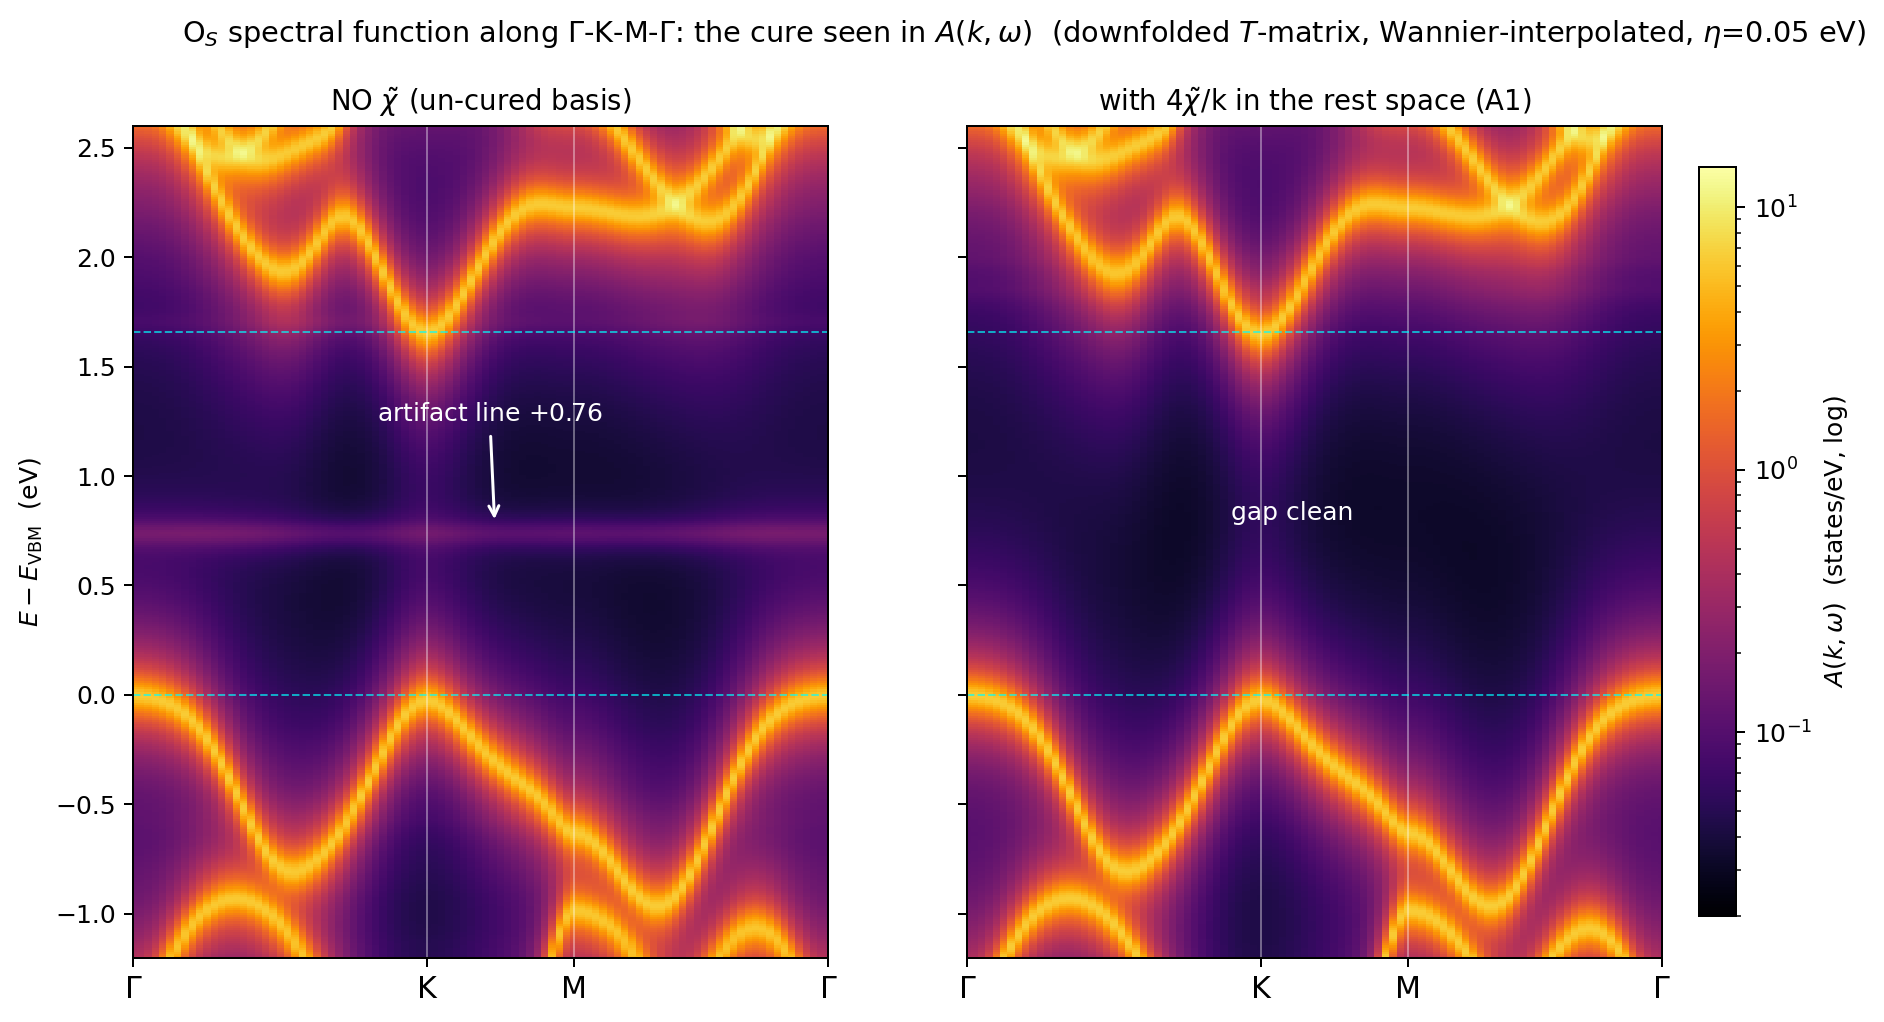
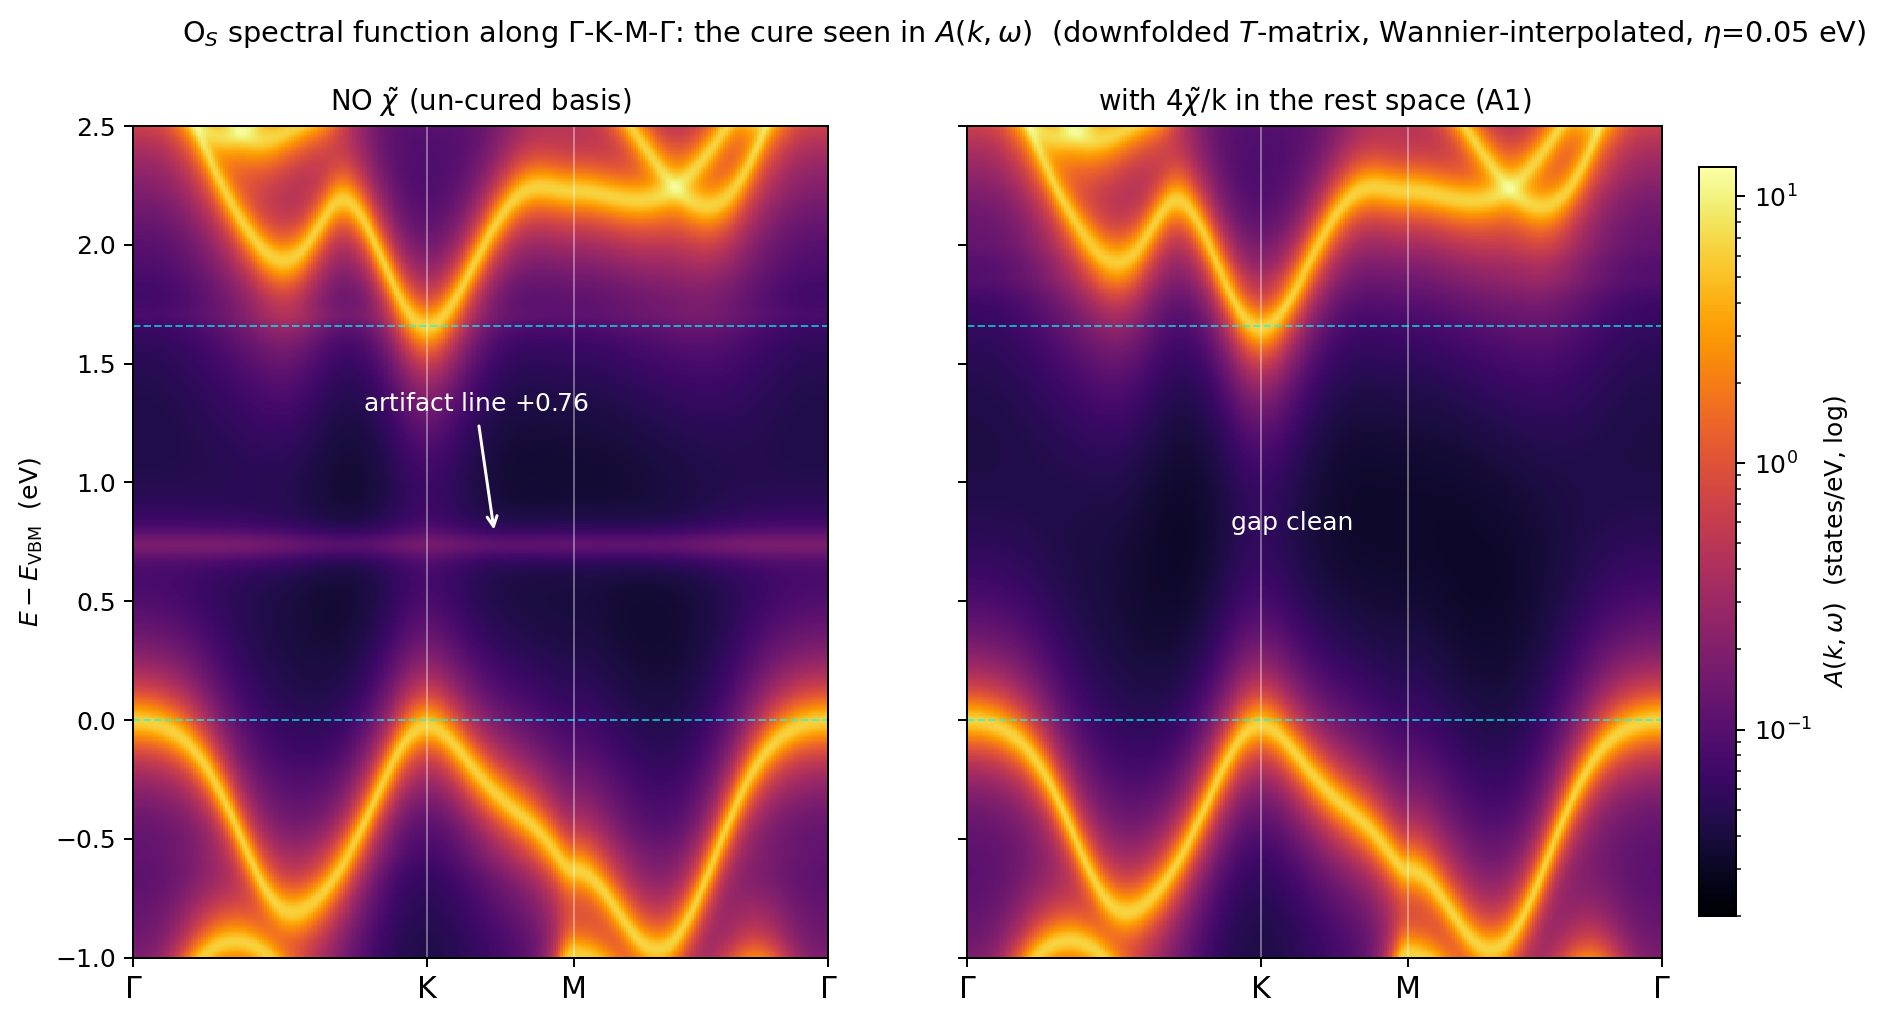
Densify spectral maps: 286 path points, gap window [-1.0, 2.5] eV
3x k-path density, 0.005 eV omega step in the display window; all
three maps regenerated. Captions: window description; a1 line at
+0.32 (static-fold) vs +0.236 (full diag) with the omega0-pin note;
e-doublet +1.210 matches the published T-matrix +1.21-1.22.

diff --git a/docs/pages/augmentation.html b/docs/pages/augmentation.html
@@ -225,12 +225,12 @@ A(k_p,\omega)=-\tfrac1\pi\,\mathrm{Im}\sum_n\big[g^0_n+g^{0\,2}_n\,T_{nn}(k_p,\o
 <figcaption><strong>The money shot.</strong> Same pipeline, same color scale (log), gap window. <strong>Left</strong> (no $\tilde\chi$): a flat bright line at $+0.76$ eV crosses the entire gap &mdash; $k$-independence is the spectral signature of a localized state, here the variational artifact of &sect;1. <strong>Right</strong> ($4\tilde\chi$/k in the rest space): the gap is clean; the host bands are pixel-identical. The O$_S$ defect's real states are band-edge resonances (triple at the VBM edge, doublet at the CBM edge) that merge with the band edges at $\eta=0.05$ eV &mdash; an <em>empty gap</em> is exactly what the cured spectral function should show.</figcaption></figure>
 
 <figure><img src="../assets/spectral_GKMG.png" alt="Full A(k,w) map" style="width:100%;max-width:860px">
-<figcaption>The full augmented $A(k,\omega)$ over the 11-band manifold (log colorbar, single impurity, $\eta=0.05$ eV): the Mo-$d$/S-$p$ dispersion along $\Gamma$&ndash;K&ndash;M&ndash;$\Gamma$ with the direct gap at K, Wannier-smooth everywhere.</figcaption></figure>
+<figcaption>The augmented $A(k,\omega)$ in the gap window $[-1.0,2.5]$ eV (log colorbar, single impurity, $\eta=0.05$ eV; 286 interpolated path points): the Mo-$d$/S-$p$ band edges along $\Gamma$&ndash;K&ndash;M&ndash;$\Gamma$ with the direct gap at K, Wannier-smooth everywhere and an empty gap.</figcaption></figure>
 
 <h3>9.1&nbsp;&nbsp;The control that closes the story: V$_{\rm S}$, where the flat lines are <em>real</em></h3>
 <p>The same pipeline on the S-vacancy production streams ($144{\times}144$, bands 1&ndash;70, no augmentation needed &mdash; the NC-golden quadrant; the defect-independent Wannier gauge is reused as-is):</p>
 <figure><img src="../assets/spectral_SV_GKMG.png" alt="V_S spectral function along G-K-M-G" style="width:100%;max-width:860px">
-<figcaption>V$_{\rm S}$: <strong>two genuine flat in-gap lines</strong> &mdash; the $e$-doublet at $+1.210$ eV ($k$-averaged $A=0.17$; the site's published value $+1.19$&ndash;$1.21$) and the fainter $a_1$ near $+0.24$ whose intensity varies $8{\times}$ along the path: energy flatness signals localization, the $k$-modulated brightness is the state's momentum decomposition. Together with &sect;9's O$_S$ maps this completes the spectral-function narrative: <em>one pipeline, an empty gap where the in-gap state was an artifact, and bright flat lines where the defect states are real</em> &mdash; the method neither misses genuine levels nor keeps spurious ones.</figcaption></figure>
+<figcaption>V$_{\rm S}$: <strong>two genuine flat in-gap lines</strong> &mdash; the $e$-doublet at $+1.210$ eV ($k$-averaged $A=0.17$; matching the published $T$-matrix value $+1.21$&ndash;$1.22$) and the fainter $a_1$ line at $+0.32$ (its full-diagonalization value is $+0.236$ &mdash; the difference is the $\omega_0$-pin cost of the static fold for this strongly rest-coupled state, cf. &sect;8.1) whose intensity varies $8{\times}$ along the path: energy flatness signals localization, the $k$-modulated brightness is the state's momentum decomposition. Together with &sect;9's O$_S$ maps this completes the spectral-function narrative: <em>one pipeline, an empty gap where the in-gap state was an artifact, and bright flat lines where the defect states are real</em> &mdash; the method neither misses genuine levels nor keeps spurious ones.</figcaption></figure>
 </section>
 
 </main>